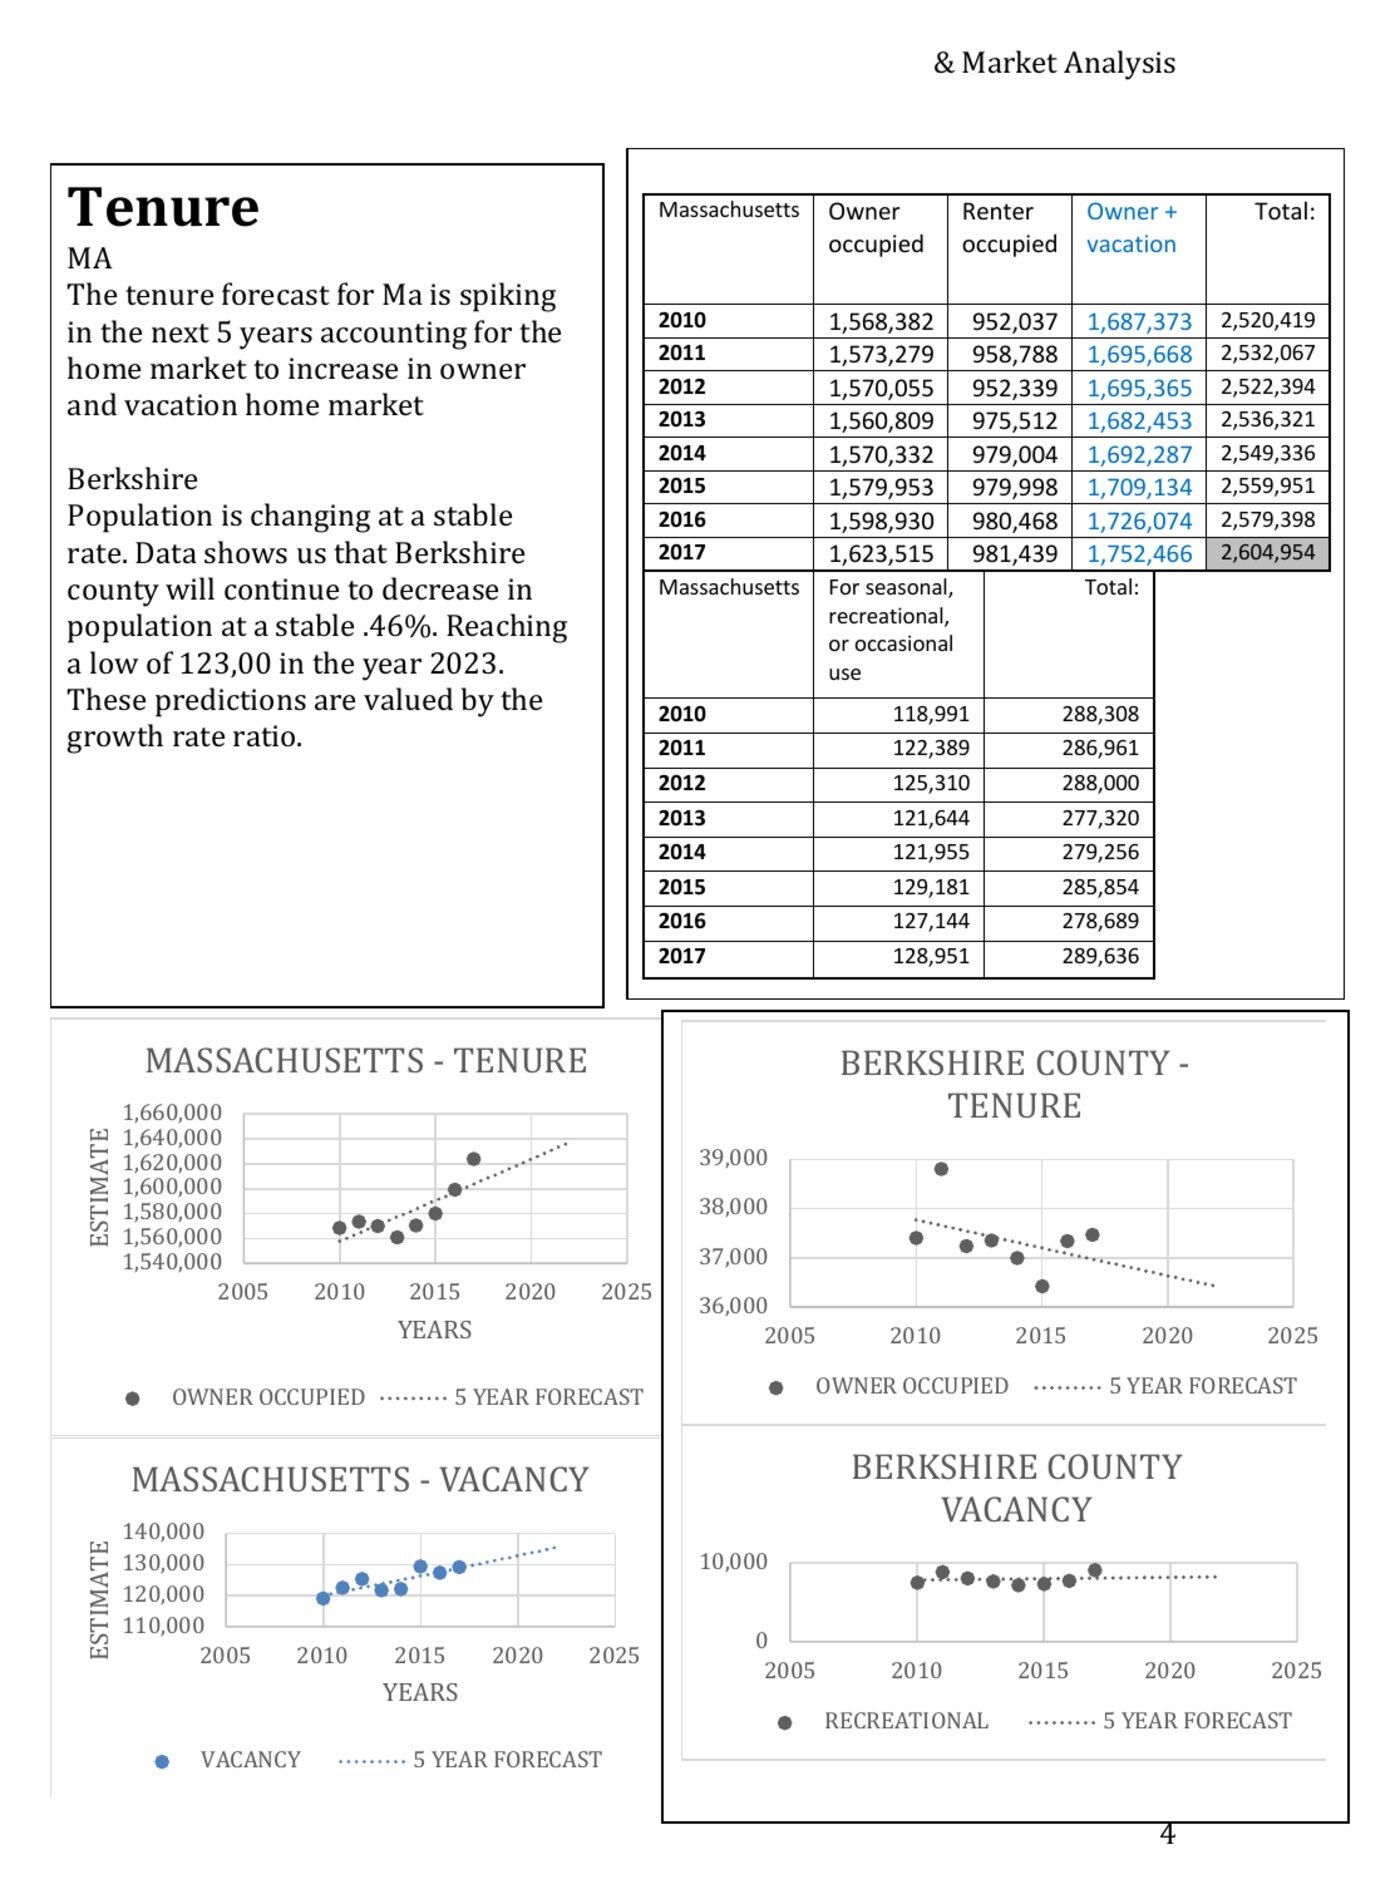
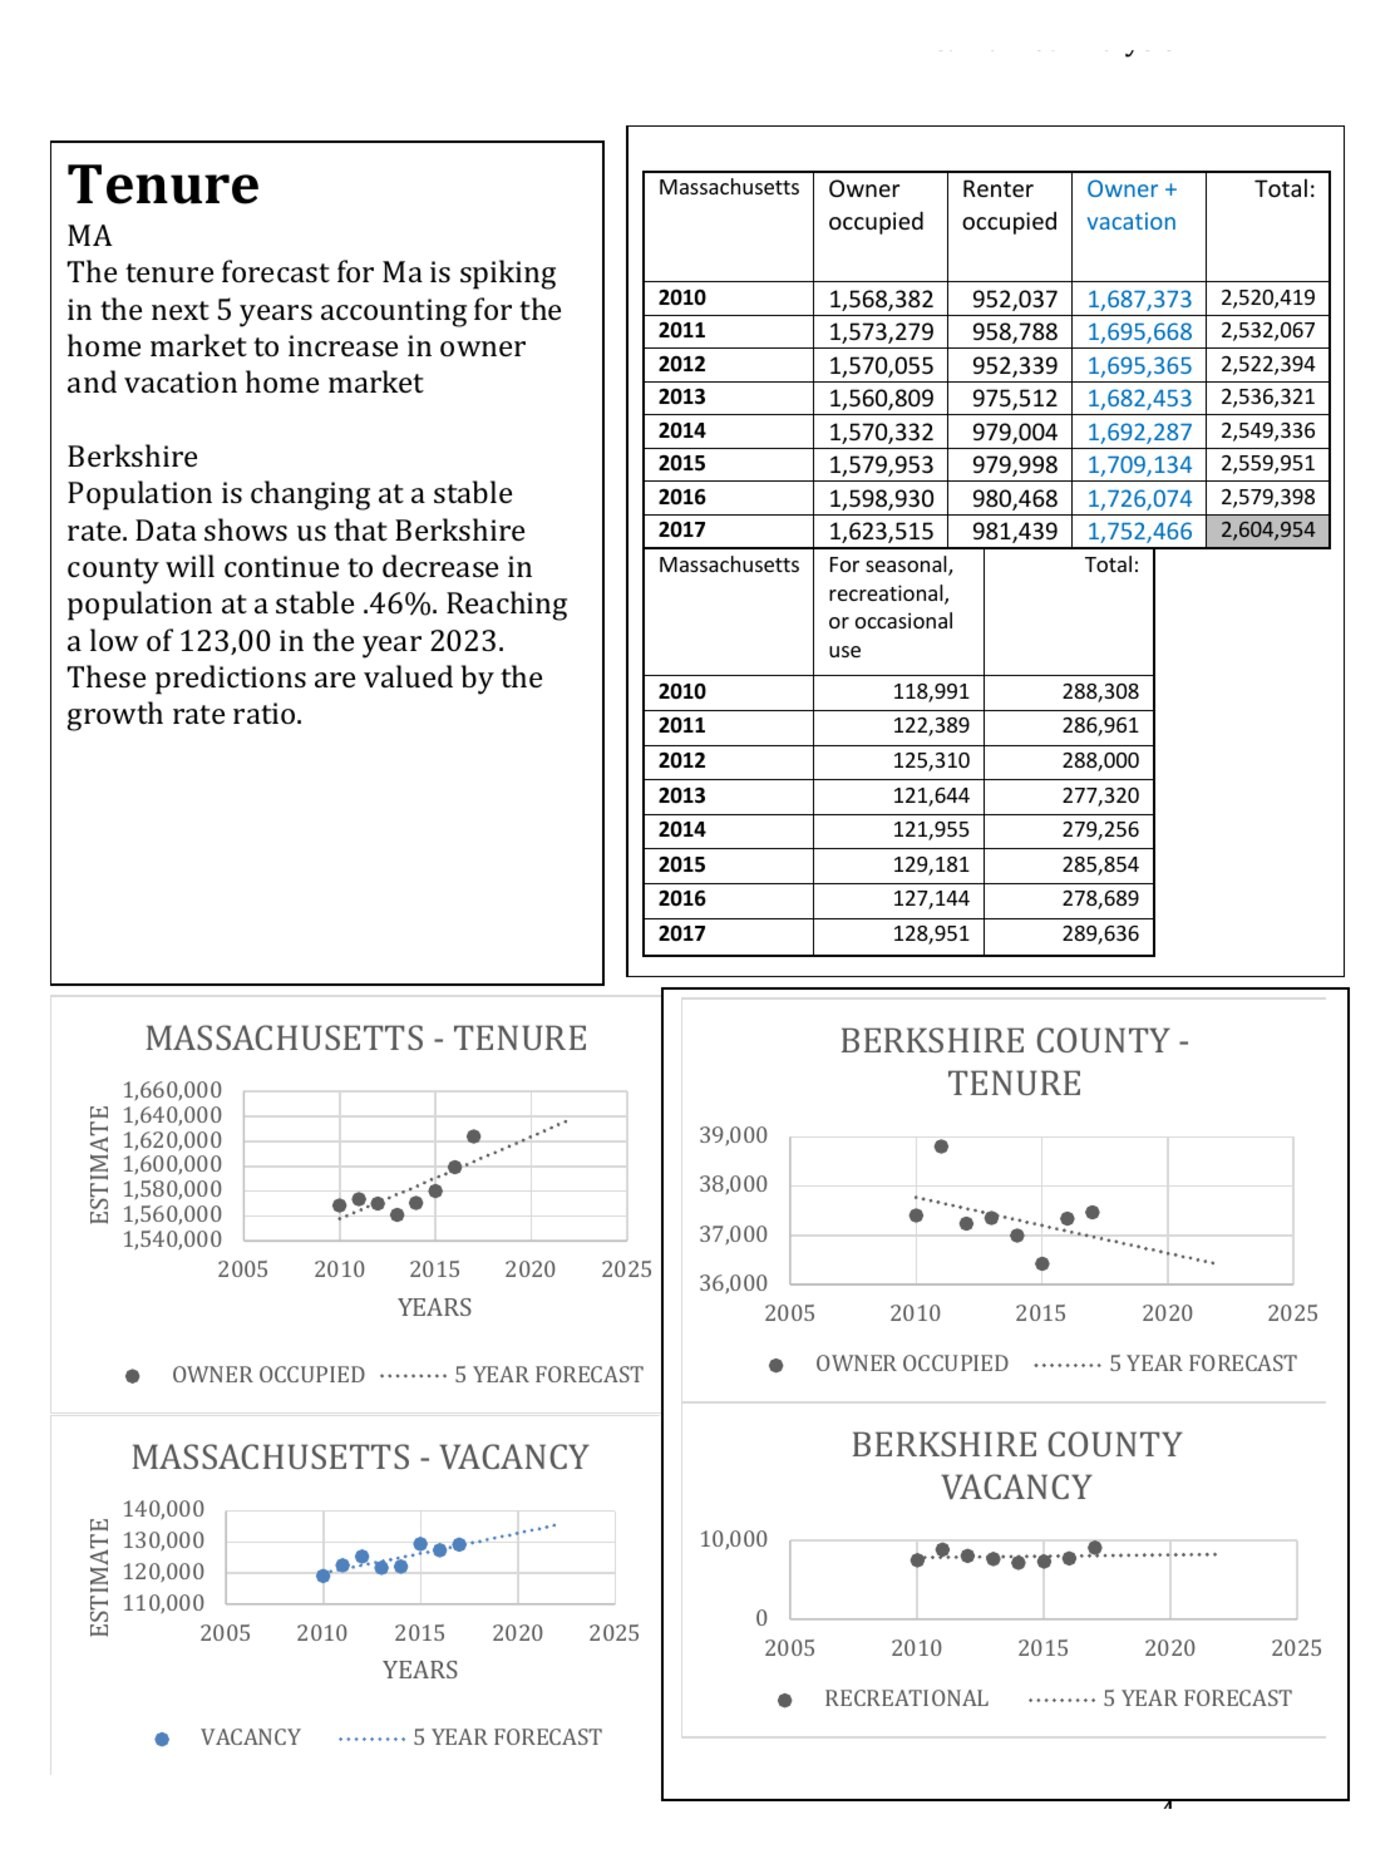
Add Onondaga site visit notes tile; more LES site study, Penobscot presentation and Berkshire pages

diff --git a/index.html b/index.html
@@ -1130,7 +1130,7 @@
     .cat-section--grid > a.home-entry:nth-of-type(3n+1):nth-last-of-type(2) ~ a.home-entry,
     .cat-section--grid > a.home-entry:nth-of-type(3n+1):nth-last-of-type(4),
     .cat-section--grid > a.home-entry:nth-of-type(3n+1):nth-last-of-type(4) ~ a.home-entry { grid-column: span 3; }
-    #cat-editorial > a.home-entry { grid-column: span 2; } /* three visible tiles; the hidden Observer tile would otherwise be counted */
+    #cat-editorial > a.home-entry { grid-column: span 3; } /* four visible tiles as two rows of two; the hidden Observer tile would otherwise be counted */
   }
   /* TILE LABELS 19 Nov: label box is see-through so less of the image is hidden; text stays solid */
   .home-entry .home-meta, .cat-section--grid .home-entry .home-meta { background: rgba(255,255,255,0.7); -webkit-backdrop-filter: blur(6px); backdrop-filter: blur(6px); }
@@ -1199,7 +1199,7 @@
       <div class="edge-mark">Valerie Jimenez, Solutions Architect, NYC</div>
 
       <div class="home-intro">
-        <div class="home-intro-tag">Index 2011 / 2026 22 selected works</div>
+        <div class="home-intro-tag">Index 2011 / 2026 23 selected works</div>
         <div class="home-intro-text"><span class="l">Buildings as regulated platforms.</span> <span class="l">Built to survive value engineering,</span> <span class="l">Political reality and capital math.</span></div>
         <div class="home-intro-sub">Solutions architect bridging architecture, building code and AI tools. 14+ years, 20+ public-use facilities, $3.155B aggregate and 7.9M sf across courthouses, healthcare, transit, libraries and hospitality. That record now works where the industry is shifting: helping firms adopt AI, price it and put it into delivery while knowledge moves faster than process. Design judgment, development economics and working software from one practitioner.</div>
       </div>
@@ -1438,7 +1438,7 @@
 
         <a data-index="Market" class="home-entry" href="#ed-berkshire" onclick="stackOpen(&apos;ed-berkshire&apos;, this); return false;">
           <div class="home-image-wrap">
-            <img decoding="async" loading="lazy" src="images/development/berkshire/page-7.jpg" alt="Berkshire County market analysis" style="object-position: center 70%;" onload="this.classList.add('loaded')" width="1400" height="2095">
+            <img decoding="async" loading="lazy" src="images/development/berkshire/page-7.jpg" alt="Berkshire County market analysis" style="object-position: center 70%;" onload="this.classList.add('loaded')" width="1400" height="2018">
           </div>
           <div class="home-meta">
             <div class="home-meta-name">Home Market Analysis</div>
@@ -1452,7 +1452,7 @@
         <div class="cat-header">
           <div class="cat-mark">05</div>
           <h2 class="cat-name">Writing &amp; Talks</h2>
-          <div class="cat-thesis">Executive summaries and notes from industry conferences on sustainable real estate and infrastructure. One concept text. Talks, including the Greenbuild NYC technology demo, are listed on the <a href="#info" onclick="showPage('info')">About page</a>.</div>
+          <div class="cat-thesis">Executive summaries and notes from industry conferences on sustainable real estate and infrastructure. One concept text and one set of field notes. Talks, including the Greenbuild NYC technology demo, are listed on the <a href="#info" onclick="showPage('info')">About page</a>.</div>
         </div>
 
         <a data-index="Sustainability" class="home-entry" href="#ed-sustainable-re" onclick="stackOpen(&apos;ed-sustainable-re&apos;, this); return false;">
@@ -1484,6 +1484,16 @@
           <div class="home-meta">
             <div class="home-meta-name">Xi'an: East, West, Peace</div>
             <div class="home-meta-loc">Xi'an China<span class="sep">/</span>2019<span class="sep">/</span>Concept text</div>
+          </div>
+        </a>
+
+        <a data-index="Onondaga" class="home-entry" href="#ed-onondaga" onclick="stackOpen(&apos;ed-onondaga&apos;, this); return false;">
+          <div class="home-image-wrap">
+            <img decoding="async" loading="lazy" src="images/editorial/onondaga/page-1.jpg" alt="Site visit notes, Onondaga County Justice Center" style="object-position: center 12%;" onload="this.classList.add('loaded')" width="1300" height="1682">
+          </div>
+          <div class="home-meta">
+            <div class="home-meta-name">Site Visit: Onondaga Justice Center</div>
+            <div class="home-meta-loc">Syracuse NY<span class="sep">/</span>2019<span class="sep">/</span>Field notes</div>
           </div>
         </a>
 
@@ -1731,6 +1741,22 @@
         <div class="image-caption">Housing study, 32 rooms around a shared dayroom, hand drawn</div>
         <img decoding="async" loading="lazy" src="images/penobscot/pcjc-37.jpg" alt="Housing layout option with dayroom, recreation yard and core program" onload="this.classList.add('loaded')" width="1600" height="947">
         <div class="image-caption">Housing layout, option 1: dayroom, recreation yard and core program spaces</div>
+        <img decoding="async" loading="lazy" src="images/penobscot/pcjc-03.jpg" alt="Summary program, project totals by department" onload="this.classList.add('loaded')" width="1600" height="947">
+        <div class="image-caption">Summary program: net and gross area by department</div>
+        <img decoding="async" loading="lazy" src="images/penobscot/pcjc-07.jpg" alt="Permitted use zoning map around the campus" onload="this.classList.add('loaded')" width="1600" height="947">
+        <div class="image-caption">Permitted use: zoning districts around the county campus</div>
+        <img decoding="async" loading="lazy" src="images/penobscot/pcjc-13.jpg" alt="Road modification option 1 with new roundabout" onload="this.classList.add('loaded')" width="1600" height="947">
+        <div class="image-caption">Road modification, option 1</div>
+        <img decoding="async" loading="lazy" src="images/penobscot/pcjc-21.jpg" alt="Proposed location option 2 with building and green space" onload="this.classList.add('loaded')" width="1600" height="947">
+        <div class="image-caption">Proposed location, option 2</div>
+        <img decoding="async" loading="lazy" src="images/penobscot/pcjc-25.jpg" alt="First floor stacking diagram with program blocks" onload="this.classList.add('loaded')" width="1600" height="947">
+        <div class="image-caption">Stacking, first floor: lobby, administration, visitation and intake</div>
+        <img decoding="async" loading="lazy" src="images/penobscot/pcjc-27.jpg" alt="Third floor stacking diagram" onload="this.classList.add('loaded')" width="1600" height="947">
+        <div class="image-caption">Stacking, third floor: intake and release beside male housing</div>
+        <img decoding="async" loading="lazy" src="images/penobscot/pcjc-34.jpg" alt="Hand-drawn housing plan study" onload="this.classList.add('loaded')" width="1600" height="947">
+        <div class="image-caption">Housing plan study, hand drawn, option with angled wings</div>
+        <img decoding="async" loading="lazy" src="images/penobscot/pcjc-36.jpg" alt="Hand-drawn housing plan study with central dayroom" onload="this.classList.add('loaded')" width="1600" height="947">
+        <div class="image-caption">Housing plan study, hand drawn, option with a central dayroom</div>
       </div>
       <div class="next-page"><a href="#hospital" onclick="showPage('hospital')">Administration &amp; Forensic Psychiatric Center &rarr;</a></div>
     </div>
@@ -1875,6 +1901,18 @@
         <div class="image-caption">The assemblage: four lots highlighted on the aerial, with the tax lot map</div>
         <img decoding="async" loading="lazy" src="images/development/les-report-3.jpg" alt="Property data for each lot: lot area, floors, units, zoning and allowable floor area" onload="this.classList.add('loaded')" width="1300" height="1682">
         <div class="image-caption">Lot by lot: area, building size, units, zoning district and allowable floor area ratio</div>
+        <img decoding="async" loading="lazy" src="images/development/les-report-4.jpg" alt="Street views from Essex Street and the corner of Canal and Essex" onload="this.classList.add('loaded')" width="1300" height="1689">
+        <div class="image-caption">Street views: Essex Street, and the corner of Canal and Essex. Street imagery: Google</div>
+        <img decoding="async" loading="lazy" src="images/development/les-report-5.jpg" alt="Street views from Division Street and Canal Street" onload="this.classList.add('loaded')" width="1300" height="1699">
+        <div class="image-caption">Street views: Division Street and Canal Street</div>
+        <img decoding="async" loading="lazy" src="images/development/les-report-6.jpg" alt="Canal Street frontage with the former theater facade" onload="this.classList.add('loaded')" width="1300" height="895">
+        <div class="image-caption">Canal Street frontage, the former theater facade between two tenements</div>
+        <img decoding="async" loading="lazy" src="images/development/les-report-7.jpg" alt="Rear yards and fire stairs seen from inside the block" onload="this.classList.add('loaded')" width="1300" height="1705">
+        <div class="image-caption">Inside the block: rear yards and fire stairs</div>
+        <img decoding="async" loading="lazy" src="images/development/les-report-8.jpg" alt="Rear yard and street-level character" onload="this.classList.add('loaded')" width="1300" height="1704">
+        <div class="image-caption">Rear yard, and the street at ground level</div>
+        <img decoding="async" loading="lazy" src="images/development/les-report-9.jpg" alt="Tower housing across the intersection" onload="this.classList.add('loaded')" width="1300" height="897">
+        <div class="image-caption">Context: tower housing across the intersection</div>
         <img decoding="async" loading="lazy" src="images/les-residential-mix.jpg" alt="LES Mixed-Use residential program by floor" onload="this.classList.add('loaded')" width="1600" height="1237">
         <div class="image-caption">Residential mix program allocation by floor, unit type, $/sf, monthly rent</div>
       </div>
@@ -2167,7 +2205,7 @@
 
     <div class="project-page" id="ed-berkshire">
       <div class="project-images">
-        <img decoding="async" loading="lazy" src="images/development/berkshire/page-3.jpg" alt="Berkshire County population by age, chart and table" onload="this.classList.add('loaded')" width="1400" height="2090">
+        <img decoding="async" loading="lazy" src="images/development/berkshire/page-3.jpg" alt="Berkshire County population by age, chart and table" onload="this.classList.add('loaded')" width="1400" height="2050">
         <div class="image-caption">Population by age, 2009 to 2017 with forecast</div>
       </div>
       <div class="project-content">
@@ -2177,9 +2215,17 @@
         <p class="project-detail">Data collection, charts, forecasts and written analysis.</p>
       </div>
       <div class="project-images">
-        <img decoding="async" loading="lazy" src="images/development/berkshire/page-4.jpg" alt="Tenure: owner and renter occupied homes, Massachusetts and Berkshire County" onload="this.classList.add('loaded')" width="1400" height="1894">
+        <img decoding="async" loading="lazy" src="images/development/berkshire/page-1.jpg" alt="Proximity and bordering communities, written analysis" onload="this.classList.add('loaded')" width="1400" height="2121">
+        <div class="image-caption">Proximity: bordering communities, price and distance</div>
+        <img decoding="async" loading="lazy" src="images/development/berkshire/page-2.jpg" alt="Employment chart and data table" onload="this.classList.add('loaded')" width="1400" height="2064">
+        <div class="image-caption">Employment and home value data</div>
+        <img decoding="async" loading="lazy" src="images/development/berkshire/page-4.jpg" alt="Tenure: owner and renter occupied homes, Massachusetts and Berkshire County" onload="this.classList.add('loaded')" width="1400" height="1859">
         <div class="image-caption">Tenure and vacancy, state against county</div>
-        <img decoding="async" loading="lazy" src="images/development/berkshire/page-7.jpg" alt="Occupancy status charts, Massachusetts and Berkshire County" onload="this.classList.add('loaded')" width="1400" height="2095">
+        <img decoding="async" loading="lazy" src="images/development/berkshire/page-5.jpg" alt="Bordering states comparison charts" onload="this.classList.add('loaded')" width="1400" height="2115">
+        <div class="image-caption">Bordering states: growth and vacancy compared</div>
+        <img decoding="async" loading="lazy" src="images/development/berkshire/page-6.jpg" alt="Population trend, Massachusetts and Berkshire County" onload="this.classList.add('loaded')" width="1400" height="2022">
+        <div class="image-caption">Population trend, state and county, with forecast</div>
+        <img decoding="async" loading="lazy" src="images/development/berkshire/page-7.jpg" alt="Occupancy status charts, Massachusetts and Berkshire County" onload="this.classList.add('loaded')" width="1400" height="2018">
         <div class="image-caption">Occupied and vacant homes, with five-year forecast</div>
       </div>
       <div class="next-page"><a href="#archive-inwood" onclick="showPage('archive-inwood')">Redevelopment &rarr;</a></div>
@@ -2201,6 +2247,20 @@
         <div class="image-caption">Massing diagram: extruded rectangle and square with the platform void between</div>
       </div>
       <div class="next-page"><a href="#ed-sustainable-re" onclick="showPage('ed-sustainable-re')">Sustainability &rarr;</a></div>
+    </div>
+
+    <div class="project-page" id="ed-onondaga">
+      <div class="project-images">
+        <img decoding="async" loading="lazy" src="images/editorial/onondaga/page-1.jpg" alt="Site visit notes, Onondaga County Justice Center, August 22 2019" onload="this.classList.add('loaded')" width="1300" height="1682">
+        <div class="image-caption">Site visit notes, Onondaga County Justice Center, August 22, 2019</div>
+      </div>
+      <div class="project-content">
+        <div class="project-location">Writing / Site visit notes / Onondaga County Justice Center, Syracuse NY / August 2019</div>
+        <p class="project-description">Notes from a tour of a 25-year-old direct supervision jail, taken with a county client planning its own justice center. What changed when staff moved from linear to direct supervision, why the first 72 hours of intake matter, how in-house medical treatment cuts contraband, and what to carry into the new program.</p>
+        <div class="project-role">Authored</div>
+        <p class="project-detail">Field notes written the day of the visit, used to inform the program for the Intake project.</p>
+      </div>
+      <div class="next-page"><a href="#penobscot" onclick="showPage('penobscot')">Intake &rarr;</a></div>
     </div>
 
     <!-- ARCHIVE 011: INWOOD REDEVELOPMENT -->
